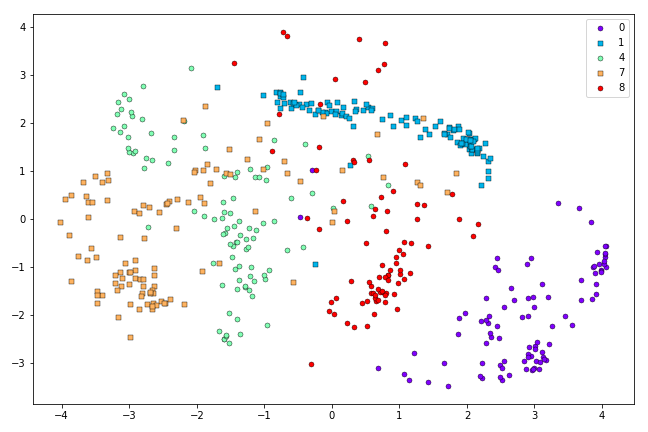
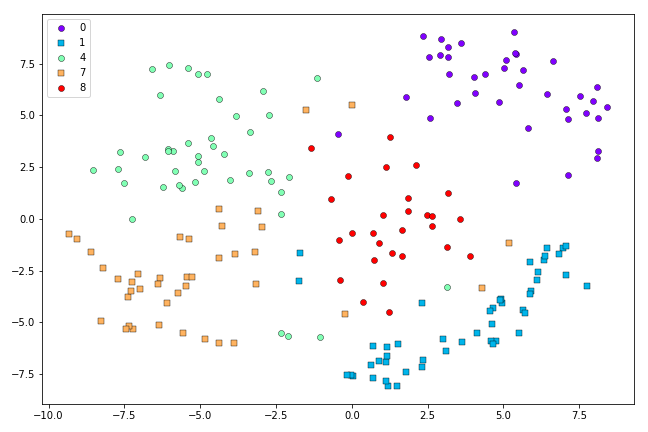
fix momentum

diff --git a/_posts/2017-09-18-in-raw-numpy-t-sne.md b/_posts/2017-09-18-in-raw-numpy-t-sne.md
@@ -307,8 +307,10 @@ So now we have everything we need to estimate Symmetric SNE.
 This training loop function will perform gradient descent:
 
 {% highlight python %}
-def estimate_sne(X, y, P, rng, num_iters, q_fn, grad_fn, 
-                 learning_rate, momentum, plot):
+
+
+def estimate_sne(X, y, P, rng, num_iters, q_fn, grad_fn, learning_rate,
+                 momentum, plot):
     """Estimates a SNE model.
 
     # Arguments
@@ -344,8 +346,8 @@ def estimate_sne(X, y, P, rng, num_iters, q_fn, grad_fn,
         if momentum:  # Add momentum
             Y += momentum * (Y_m1 - Y_m2)
             # Update previous Y's for momentum
-            Y_m1 = Y.copy()
             Y_m2 = Y_m1.copy()
+            Y_m1 = Y.copy()
 
         # Plot sometimes
         if plot and i % (num_iters / plot) == 0:
